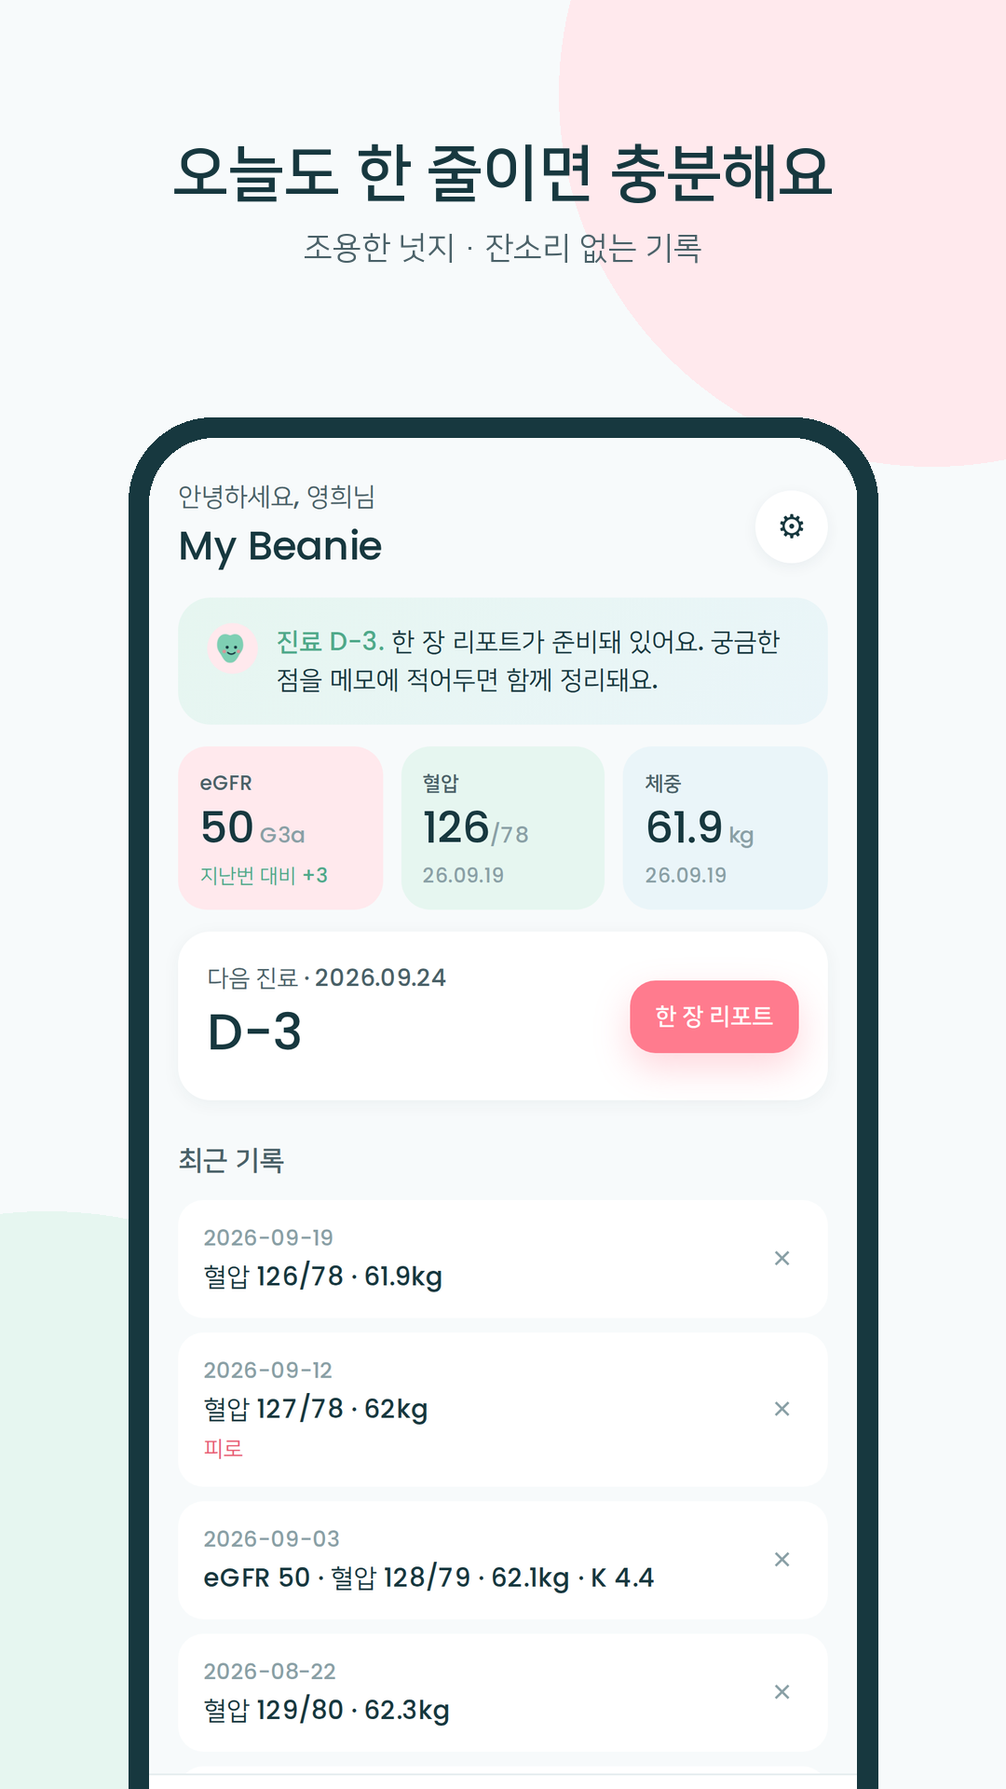
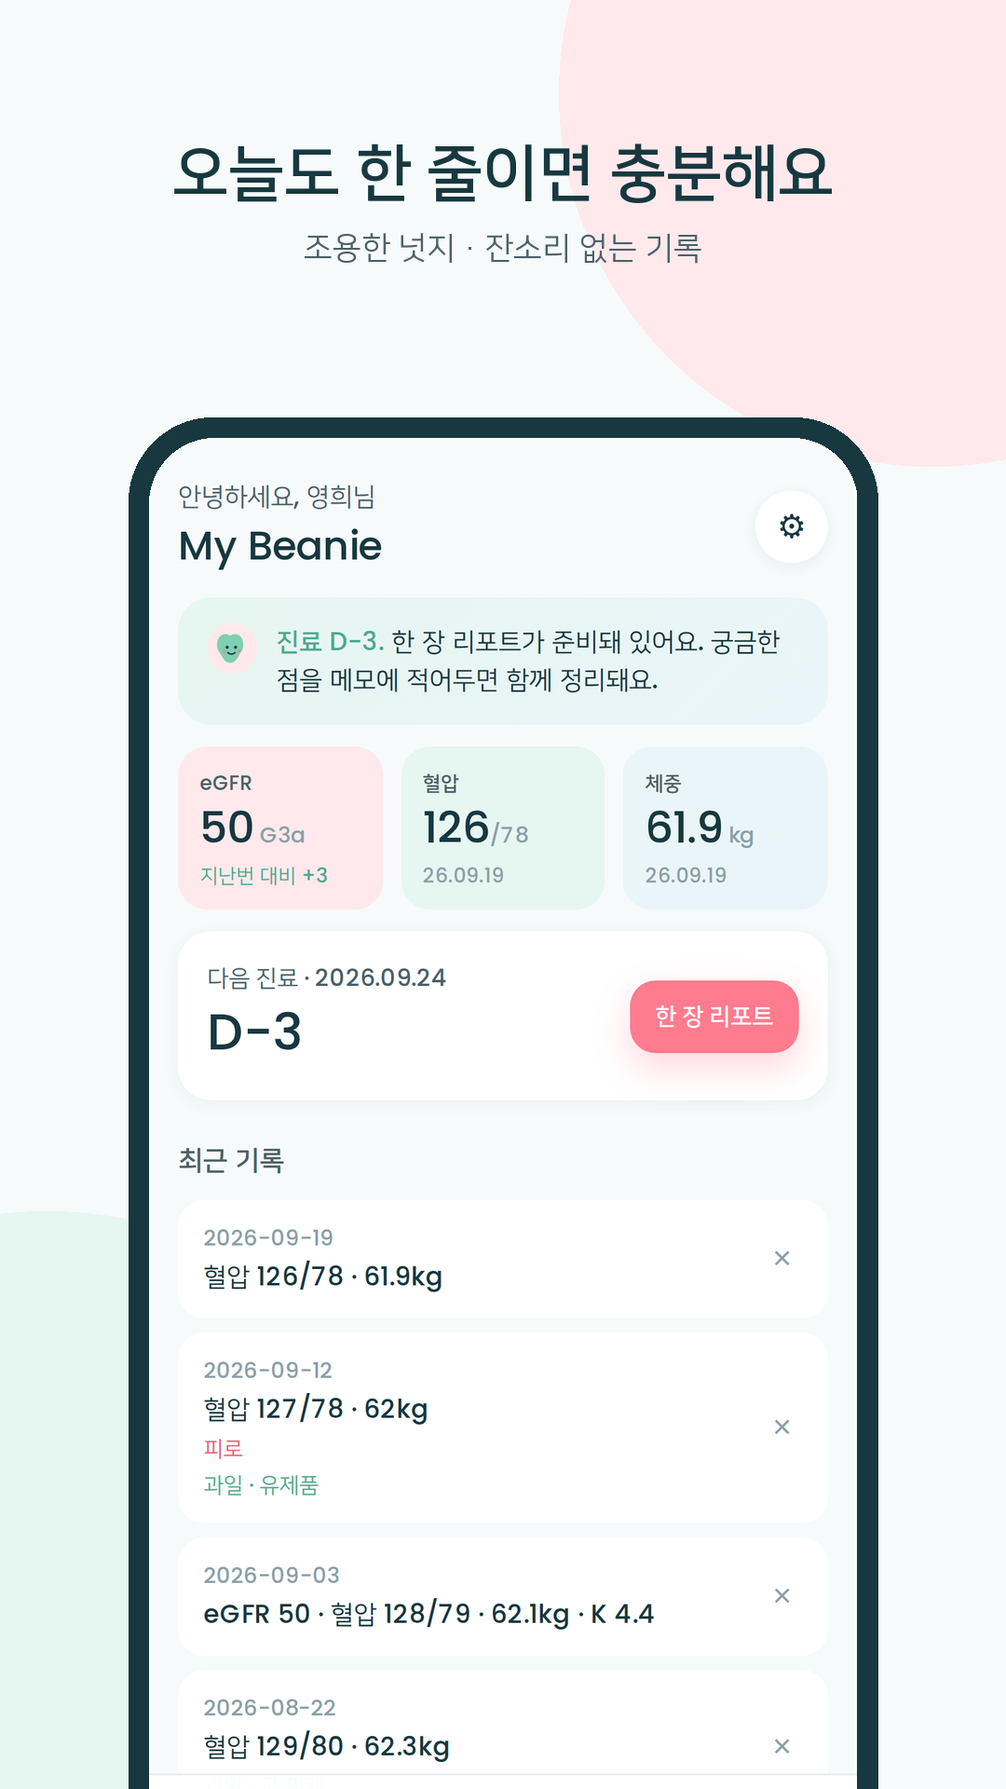
Add files via upload

Changed region(s): [[0.1833, 0.8125, 0.6722, 1.0], [0.3667, 0.9375, 0.4583, 1.0], [0.7639, 0.7812, 0.7944, 0.8125]]

diff --git a/app/app.js b/app/app.js
@@ -1,4 +1,4 @@
-/* My Beanie v0.2 — 콩팥 건강 일지 / Kidney Health Journal (PWA, ko/en) */
+/* My Beanie v0.3 — 콩팥 건강 일지 / Kidney Health Journal (PWA, ko/en) */
 (() => {
   const DEMO = /[?&]demo/.test(location.search);
   const KEY = DEMO ? 'mybeanie.demo' : 'mybeanie.v1';
@@ -7,6 +7,7 @@
   const today = () => new Date().toISOString().slice(0, 10);
   const fmt = d => d.replace(/-/g, '.').slice(2); // 26.09.17
   const r1 = n => Math.round(n * 10) / 10;
+  const esc = s => String(s).replace(/[&<>]/g, c => ({ '&': '&amp;', '<': '&lt;', '>': '&gt;' }[c]));
 
   // ---------- state ----------
   let S = load();
@@ -20,21 +21,23 @@
     const T = new Date(); const d = n => { const x = new Date(T); x.setDate(x.getDate() - n); return x.toISOString().slice(0, 10); };
     const v = new Date(T); v.setDate(v.getDate() + 3);
     const rows = [
-      [92, 1.34, 5.1, 3.9, 142, 89, 63.4, ['fatigue'], ''],
-      [80, null, null, null, 138, 86, 63.1, ['fatigue', 'nocturia'], ''],
+      [92, 1.34, 5.1, 3.9, 142, 89, 63.4, ['fatigue'], '', ['eatout', 'alcohol']],
+      [80, null, null, null, 138, 86, 63.1, ['fatigue', 'nocturia'], '', ['delivery', 'processed']],
       [68, null, null, null, 135, 84, 62.9, [], LANG === 'en' ? 'Some days I feel dizzy after taking my pills' : '약 먹고 나서 어지러운 날이 있어요'],
       [56, 1.29, 4.7, 3.7, 133, 82, 62.6, ['swelling'], LANG === 'en' ? 'My ankles swell every evening — is that okay?' : '저녁마다 발목이 붓는데 괜찮은가요?'],
-      [44, null, null, null, 131, 81, 62.5, ['swelling', 'nocturia'], ''],
-      [30, null, null, null, 129, 80, 62.3, [], ''],
+      [44, null, null, null, 131, 81, 62.5, ['swelling', 'nocturia'], '', ['eatout', 'soup']],
+      [30, null, null, null, 129, 80, 62.3, [], '', ['fruit', 'soup']],
       [18, 1.22, 4.4, 3.6, 128, 79, 62.1, [], LANG === 'en' ? 'Is my protein intake about right?' : '단백질 섭취량이 적당한지 궁금해요'],
-      [9, null, null, null, 127, 78, 62.0, ['fatigue'], ''],
+      [9, null, null, null, 127, 78, 62.0, ['fatigue'], '', ['fruit', 'dairy']],
       [2, null, null, null, 126, 78, 61.9, [], LANG === 'en' ? 'Less eating out seems to mean less swelling' : '외식을 줄였더니 붓기가 덜한 것 같아요'],
     ];
-    const entries = rows.map(([n, cr, k, p, sbp, dbp, wt, sym, note], i) => ({ id: 'demo' + i, date: d(n), ts: i, cr, k, p, sbp, dbp, wt, sym, note, egfr: cr ? egfr(cr, 61, 'F') : null }));
+    const ftext = { 0: LANG === 'en' ? 'Dinner out with friends' : '저녁 친구들과 외식', 1: LANG === 'en' ? 'Fried chicken delivery' : '치킨 배달', 4: LANG === 'en' ? 'Lunch out, dinner soup at home' : '점심 외식, 저녁 집에서 된장국' };
+    const entries = rows.map(([n, cr, k, p, sbp, dbp, wt, sym, note, ftags], i) => ({ id: 'demo' + i, date: d(n), ts: i, cr, k, p, sbp, dbp, wt, sym, note, egfr: cr ? egfr(cr, 61, 'F') : null, food: ftags ? { tags: ftags, text: ftext[i] || '', photo: null } : null }));
     return { profile: { name: t('demo_name'), year: T.getFullYear() - 61, sex: 'F', visit: v.toISOString().slice(0, 10) }, entries, symChips: [] };
   }
   const SYM_LEGACY = { '붓기': 'swelling', '피로': 'fatigue', '가려움': 'itching', '식욕저하': 'appetite', '숨참': 'breath', '두통': 'headache', '거품뇨': 'foamy', '야간뇨': 'nocturia', '잠 설침': 'sleep' };
   const symName = k => (t('sym')[k] || k);
+  const foodName = k => (t('foods')[k] || k);
   function migrate() { (S.entries || []).forEach(e => { e.sym = (e.sym || []).map(x => SYM_LEGACY[x] || x); }); }
   migrate();
   function save() { try { localStorage.setItem(KEY, JSON.stringify(S)); } catch (e) { toast(t('storage_err')); } }
@@ -116,7 +119,7 @@
     if (e.sbp) m.push(`${t('bp')} <b>${e.sbp}/${e.dbp || '–'}</b>`);
     if (e.wt) m.push(`<b>${e.wt}</b>kg`);
     if (e.k) m.push(`K <b>${e.k}</b>`);
-    return `<div class="item"><div><div class="dt">${e.date}</div><div class="m">${m.join(' · ') || (e.note ? t('memo') : t('record'))}</div>${e.sym?.length ? `<div class="sy">${e.sym.map(symName).join(' · ')}</div>` : ''}</div><button class="del" data-id="${e.id}" aria-label="${t('delete')}">×</button></div>`;
+    return `<div class="item"><div><div class="dt">${e.date}</div><div class="m">${m.join(' · ') || (e.food ? t('meal') : e.note ? t('memo') : t('record'))}</div>${e.sym?.length ? `<div class="sy">${e.sym.map(symName).join(' · ')}</div>` : ''}${e.food ? `<div class="fd">${[...(e.food.tags || []).map(foodName), e.food.text ? esc(e.food.text) : ''].filter(Boolean).join(' · ')}</div>` : ''}</div>${e.food?.photo ? `<img class="ft" src="${e.food.photo}" alt="">` : ''}<button class="del" data-id="${e.id}" aria-label="${t('delete')}">×</button></div>`;
   }
   // The Quiet Nudge — 한 번에 한 줄만
   function nudge(es, p) {
@@ -141,6 +144,23 @@
     const b = e.target.closest('button'); if (!b) return;
     b.classList.toggle('on'); b.classList.contains('on') ? sym.add(b.dataset.s) : sym.delete(b.dataset.s);
   });
+  let food = new Set(), foodPhoto = null;
+  $('#food-chips').addEventListener('click', e => {
+    const b = e.target.closest('button'); if (!b) return;
+    b.classList.toggle('on'); b.classList.contains('on') ? food.add(b.dataset.f) : food.delete(b.dataset.f);
+  });
+  function renderPhoto() { $('#food-prev').innerHTML = foodPhoto ? `<img src="${foodPhoto}" alt=""><button type="button" class="x" id="food-x">×</button>` : ''; const x = $('#food-x'); if (x) x.onclick = () => { foodPhoto = null; renderPhoto(); }; }
+  $('#food-photo').onchange = e => {
+    const f = e.target.files[0]; if (!f) return;
+    const img = new Image(); const url = URL.createObjectURL(f);
+    img.onload = () => {
+      const max = 480, s = Math.min(1, max / Math.max(img.width, img.height));
+      const c = document.createElement('canvas'); c.width = Math.round(img.width * s); c.height = Math.round(img.height * s);
+      c.getContext('2d').drawImage(img, 0, 0, c.width, c.height);
+      foodPhoto = c.toDataURL('image/jpeg', 0.6); URL.revokeObjectURL(url); renderPhoto(); if (s < 1) toast(t('photo_big'));
+    };
+    img.src = url; e.target.value = '';
+  };
   $('#log-form').cr.addEventListener('input', e => {
     const g = egfr(+e.target.value, age(), S.profile?.sex);
     $('#egfr-preview').textContent = g ? `→ eGFR ${g} (${stage(g)}) · CKD-EPI 2021` : '';
@@ -149,11 +169,12 @@
   $('#log-form').onsubmit = ev => {
     ev.preventDefault();
     const f = ev.target, n = k => f[k].value === '' ? null : +f[k].value;
-    const e = { id: Date.now().toString(36), date: today(), ts: Date.now(), cr: n('cr'), k: n('k'), p: n('p'), sbp: n('sbp'), dbp: n('dbp'), wt: n('wt'), sym: [...sym], note: f.note.value.trim() };
+    const e = { id: Date.now().toString(36), date: today(), ts: Date.now(), cr: n('cr'), k: n('k'), p: n('p'), sbp: n('sbp'), dbp: n('dbp'), wt: n('wt'), sym: [...sym], note: f.note.value.trim(), food: { tags: [...food], text: f.foodtext.value.trim(), photo: foodPhoto } };
     e.egfr = e.cr ? egfr(e.cr, age(), S.profile.sex) : null;
-    if (!e.cr && !e.sbp && !e.wt && !e.sym.length && !e.note && !e.k && !e.p) return toast(t('need_one'));
+    if (!e.food.tags.length && !e.food.text && !e.food.photo) e.food = null;
+    if (!e.cr && !e.sbp && !e.wt && !e.sym.length && !e.note && !e.k && !e.p && !e.food) return toast(t('need_one'));
     S.entries.push(e); save();
-    f.reset(); sym.clear(); $$('#sym-chips button').forEach(b => b.classList.remove('on')); $('#egfr-preview').textContent = '';
+    f.reset(); sym.clear(); food.clear(); foodPhoto = null; renderPhoto(); $$('#sym-chips button, #food-chips button').forEach(b => b.classList.remove('on')); $('#egfr-preview').textContent = '';
     toast(t('saved')); go('home');
   };
 
@@ -217,6 +238,8 @@
     row(t('tt_sbp'), avg(prev, 'sbp'), avg(cur, 'sbp'), '', false);
     row(t('tt_dbp'), avg(prev, 'dbp'), avg(cur, 'dbp'), '', false);
     row(t('tt_wt'), avg(prev, 'wt'), avg(cur, 'wt'), 'kg', false);
+    const eat = arr => arr.reduce((n, e) => n + ((e.food?.tags || []).filter(x => x === 'eatout' || x === 'delivery').length), 0);
+    const hasFood = es.some(e => e.food); if (hasFood) row(t('tt_eatout'), eat(prev), eat(cur), '', false);
     $('#timetravel').innerHTML = `<div class="t">${t('tt_title')}<span>TIME TRAVEL</span></div>` + (rows.length ? `<table><tr><td style="color:#8AA0A6;font-size:11px">${t('item')}</td><td style="color:#8AA0A6;font-size:11px;text-align:right">${t('last')}</td><td style="color:#8AA0A6;font-size:11px;text-align:right">${t('now')}</td></tr>${rows.join('')}</table>` : `<div class="empty">${t('tt_empty')}</div>`);
   }
 
@@ -232,6 +255,9 @@
     const symCount = {}; es.forEach(e => (e.sym || []).forEach(s => symCount[s] = (symCount[s] || 0) + 1));
     const syms = Object.entries(symCount).sort((a, b) => b[1] - a[1]);
     const notes = es.filter(e => e.note).slice(-6).reverse();
+    const foodCount = {}; es.forEach(e => (e.food?.tags || []).forEach(s => foodCount[s] = (foodCount[s] || 0) + 1));
+    const foodTags = Object.entries(foodCount).sort((a, b) => b[1] - a[1]);
+    const foodNotes = es.filter(e => e.food?.text).slice(-4).reverse();
     const first = L[0], last = L[L.length - 1];
     $('#onepager').innerHTML = `
       <div class="hd"><div><h3>${t('op_head', { name: p.name })}</h3><div class="en">The One-Pager · My Beanie</div></div>
@@ -246,11 +272,13 @@
       <tr><td>${t('op_wt')}</td><td class="num">${wt ? wt.avg : '–'}</td><td class="num">${wt ? wt.min + '–' + wt.max : '–'}</td><td class="num">${wt ? wt.n : 0}</td></tr></table>
       <h4 class="b">${t('op_signals')}</h4>
       ${syms.length ? syms.map(([s, n]) => `<span class="pill">${symName(s)} ×${n}</span>`).join('') : `<div class="meta">${t('op_no_sym')}</div>`}
+      <h4 class="m">${t('op_food')}</h4>
+      ${foodTags.length ? foodTags.map(([s, n]) => `<span class="pill f">${foodName(s)} ×${n}</span>`).join('') : `<div class="meta">${t('op_no_food')}</div>`}
+      ${foodNotes.length ? `<div class="meta" style="margin-top:6px"><b>${t('op_food_recent')}</b> · ${foodNotes.map(e => fmt(e.date) + ' ' + esc(e.food.text)).join(' · ')}</div>` : ''}
       <h4>${t('op_questions')}</h4>
       ${notes.length ? `<ul>${notes.map(e => `<li><span style="color:#8AA0A6;font-family:Poppins">${fmt(e.date)}</span> ${esc(e.note)}</li>`).join('')}</ul>` : `<div class="meta">${t('op_no_notes')}</div>`}
       <div class="foot">${t('op_foot')}</div>`;
   }
-  const esc = s => s.replace(/[&<>]/g, c => ({ '&': '&amp;', '<': '&lt;', '>': '&gt;' }[c]));
   $('#rep-print').onclick = () => window.print();
   $('#rep-share').onclick = async () => {
     const text = $('#onepager').innerText;

diff --git a/app/i18n.js b/app/i18n.js
@@ -13,7 +13,7 @@ window.I18N = {
     start_logging: '기록을 시작해 보세요', last_record: '최근 기록', no_record: '최근 기록 없음', enter_cr: '크레아티닌을 입력하면 계산돼요',
     vs_last: '지난번 대비 {d}', next_visit: '다음 진료 · {date}', passed: '지남', today_lbl: '오늘', one_pager_btn: '한 장 리포트',
     set_visit: '다음 진료일을 설정하면 리포트 준비를 알려드려요', recent: '최근 기록', empty_home: '아직 기록이 없어요. 아래 ＋ 기록에서 시작해 보세요.',
-    del_confirm: '이 기록을 삭제할까요?', delete: '삭제', memo: '메모', record: '기록',
+    del_confirm: '이 기록을 삭제할까요?', delete: '삭제', memo: '메모', record: '기록', meal: '식사',
     // nudge
     n_visit: '<b>진료 D-{d}.</b> 한 장 리포트가 준비돼 있어요. 궁금한 점을 메모에 적어두면 함께 정리돼요.',
     n_bp: '<b>최근 세 번 혈압이 높은 편이에요.</b> 진료 때 꼭 이야기해 보세요.',
@@ -26,6 +26,10 @@ window.I18N = {
     daily: '일상 측정', sbp: '수축기', dbp: '이완기', wt: '체중 (kg)', signals: '몸의 신호', signals_hint: '해당하는 것만',
     notes_lbl: '의사에게 물어볼 것 · 메모', notes_ph: '예: 저녁마다 발목이 붓는데 괜찮은가요?', save: '저장', need_one: '한 가지라도 적어 주세요', saved: '저장했어요',
     sym: { swelling: '붓기', fatigue: '피로', itching: '가려움', appetite: '식욕저하', breath: '숨참', headache: '두통', foamy: '거품뇨', nocturia: '야간뇨', sleep: '잠 설침' },
+    // food
+    food: '오늘 먹은 것', food_hint: '계산하지 않아요 · 패턴만', food_ph: '한 줄로 (예: 점심 김치찌개, 저녁 외식)', food_photo: '📷 사진',
+    foods: { eatout: '외식', delivery: '배달', soup: '국·찌개', fruit: '과일', nuts: '견과', dairy: '유제품', processed: '가공식품', alcohol: '음주' },
+    tt_eatout: '외식+배달 (30일 횟수)', op_food: '식사 패턴 (기간 내 횟수)', op_no_food: '식사 기록 없음', op_food_recent: '최근 식사 메모', photo_big: '사진이 너무 커서 축소해 저장했어요',
     // trend
     trend: '추이', chart_empty: '아직 기록이 없어요', tt_title: '지난번 대비 비교', item: '항목', last: '지난번', now: '이번',
     tt_cr: '크레아티닌', tt_k: '칼륨 K', tt_sbp: '수축기 혈압 (30일 평균)', tt_dbp: '이완기 혈압 (30일 평균)', tt_wt: '체중 (30일 평균)', tt_empty: '두 번 이상 기록하면 비교가 시작돼요',
@@ -39,7 +43,7 @@ window.I18N = {
     share_title: 'My Beanie 진료 전 한 장', copied: '텍스트를 복사했어요', no_share: '공유를 지원하지 않는 브라우저예요',
     // settings
     st_name: '이름', st_year: '출생연도', st_visit: '다음 진료일', st_lang: '언어 · Language', data: '데이터', export: '기록 내보내기 (JSON)', import: '기록 가져오기', reset: '모든 기록 삭제',
-    imported: '가져왔어요', bad_file: '파일을 읽을 수 없어요', reset_confirm: '모든 기록과 설정을 삭제할까요? 되돌릴 수 없어요.', st_foot: 'My Beanie v0.2 · 개인 건강기록 도구',
+    imported: '가져왔어요', bad_file: '파일을 읽을 수 없어요', reset_confirm: '모든 기록과 설정을 삭제할까요? 되돌릴 수 없어요.', st_foot: 'My Beanie v0.3 · 개인 건강기록 도구',
     // tabs
     tab_home: '홈', tab_log: '기록', tab_trend: '추이', tab_report: '리포트',
     demo_bar: '데모 데이터 · 가상의 기록입니다 (실제 환자 아님)', demo_link: '실제로 시작하기 →', demo_name: '영희', storage_err: '저장 공간을 사용할 수 없어요',
@@ -54,7 +58,7 @@ window.I18N = {
     start_logging: 'Start logging', last_record: 'Latest', no_record: 'No records yet', enter_cr: 'Enter creatinine to calculate',
     vs_last: '{d} vs. last', next_visit: 'Next visit · {date}', passed: 'passed', today_lbl: 'today', one_pager_btn: 'One-Pager',
     set_visit: 'Set your next appointment and I\'ll remind you to prepare the report', recent: 'Recent entries', empty_home: 'Nothing logged yet. Tap ＋ Log below to begin.',
-    del_confirm: 'Delete this entry?', delete: 'Delete', memo: 'Note', record: 'Entry',
+    del_confirm: 'Delete this entry?', delete: 'Delete', memo: 'Note', record: 'Entry', meal: 'Meal',
     n_visit: '<b>Visit in {d} days.</b> Your One-Pager is ready. Jot down questions in a note and they\'ll be included.',
     n_bp: '<b>Your last three blood pressures ran high.</b> Be sure to mention it at your visit.',
     n_swell: '<b>Swelling has continued.</b> Logging today\'s weight alongside will help at your visit.',
@@ -65,6 +69,9 @@ window.I18N = {
     daily: 'Daily measurements', sbp: 'Systolic', dbp: 'Diastolic', wt: 'Weight (kg)', signals: 'Body signals', signals_hint: 'tap any that apply',
     notes_lbl: 'Questions for my doctor · Notes', notes_ph: 'e.g. My ankles swell every evening — is that okay?', save: 'Save', need_one: 'Please enter at least one item', saved: 'Saved',
     sym: { swelling: 'Swelling', fatigue: 'Fatigue', itching: 'Itching', appetite: 'Low appetite', breath: 'Short of breath', headache: 'Headache', foamy: 'Foamy urine', nocturia: 'Night urination', sleep: 'Poor sleep' },
+    food: 'What I ate today', food_hint: 'no counting · just patterns', food_ph: 'One line (e.g. lunch: stew, dinner: ate out)', food_photo: '📷 Photo',
+    foods: { eatout: 'Ate out', delivery: 'Delivery', soup: 'Soup / stew', fruit: 'Fruit', nuts: 'Nuts', dairy: 'Dairy', processed: 'Processed food', alcohol: 'Alcohol' },
+    tt_eatout: 'Ate out + delivery (30-day count)', op_food: 'Meal patterns (count in period)', op_no_food: 'No meals logged', op_food_recent: 'Recent meal notes', photo_big: 'Photo was resized to save space',
     trend: 'Trends', chart_empty: 'No records yet', tt_title: 'Then vs. now', item: 'Item', last: 'Last', now: 'Now',
     tt_cr: 'Creatinine', tt_k: 'Potassium K', tt_sbp: 'Systolic BP (30-day avg)', tt_dbp: 'Diastolic BP (30-day avg)', tt_wt: 'Weight (30-day avg)', tt_empty: 'Log at least twice to start comparing',
     rep_title: 'Pre-visit report', period: 'Period', d30: 'Last 30 days', d90: 'Last 90 days', d180: 'Last 180 days', print: 'Print / PDF', share: 'Share',
@@ -75,7 +82,7 @@ window.I18N = {
     op_foot: 'A personal health record kept by the patient; not a medical device. eGFR is a reference value from the CKD-EPI 2021 (race-free) equation; clinical judgment rests with your care team. kidneybloom.com',
     share_title: 'My Beanie pre-visit report', copied: 'Copied to clipboard', no_share: 'Sharing is not supported in this browser',
     st_name: 'Name', st_year: 'Year of birth', st_visit: 'Next appointment', st_lang: 'Language · 언어', data: 'Data', export: 'Export records (JSON)', import: 'Import records', reset: 'Delete all records',
-    imported: 'Imported', bad_file: 'Could not read the file', reset_confirm: 'Delete all records and settings? This cannot be undone.', st_foot: 'My Beanie v0.2 · personal health-record tool',
+    imported: 'Imported', bad_file: 'Could not read the file', reset_confirm: 'Delete all records and settings? This cannot be undone.', st_foot: 'My Beanie v0.3 · personal health-record tool',
     tab_home: 'Home', tab_log: 'Log', tab_trend: 'Trends', tab_report: 'Report',
     demo_bar: 'Demo · fictional data, not a real patient', demo_link: 'Start for real →', demo_name: 'Jane', storage_err: 'Storage is not available',
   },
@@ -96,4 +103,5 @@ window.applyI18n = () => {
   document.querySelectorAll('[data-i18n]').forEach(el => { const k = el.dataset.i18n; const v = t(k); if (v.includes('\n')) el.innerHTML = v.replace(/\n/g, '<br>'); else el.textContent = v; });
   document.querySelectorAll('[data-i18n-ph]').forEach(el => el.placeholder = t(el.dataset.i18nPh));
   document.querySelectorAll('[data-i18n-sym]').forEach(el => el.textContent = t('sym')[el.dataset.s]);
+  document.querySelectorAll('[data-i18n-food]').forEach(el => el.textContent = t('foods')[el.dataset.f]);
 };

diff --git a/app/style.css b/app/style.css
@@ -39,6 +39,7 @@ label{display:block;font-size:13px;font-weight:700;color:var(--ink-2);margin:12p
 input,textarea,select{display:block;width:100%;margin-top:6px;border:1px solid var(--line);border-radius:12px;padding:12px 14px;font-size:16px;font-family:var(--ko);background:#fff;color:var(--ink)}
 input:focus,textarea:focus,select:focus{outline:2px solid var(--mint);border-color:transparent}
 input[type=number]{font-family:var(--en)}
+input[hidden]{display:none!important}
 .row2{display:grid;grid-template-columns:1fr 1fr;gap:10px}
 .grp{background:var(--card);border-radius:var(--r);padding:6px 16px 16px;margin-bottom:12px}
 .grp-t{font-size:14px;font-weight:800;margin-top:10px}
@@ -47,6 +48,15 @@ input[type=number]{font-family:var(--en)}
 .chips{display:flex;flex-wrap:wrap;gap:8px;margin-top:12px}
 .chips button{border:1px solid var(--line);background:#fff;border-radius:999px;padding:8px 14px;font-family:var(--ko);font-size:14px;color:var(--ink-2);cursor:pointer}
 .chips button.on{background:var(--coral-soft);border-color:var(--coral);color:var(--coral-deep);font-weight:700}
+/* food */
+.photo-row{display:flex;align-items:center;gap:10px;margin-top:10px}
+.photo-btn{display:inline-flex;align-items:center;gap:6px;border:1px dashed var(--ink-3);border-radius:12px;padding:9px 14px;font-size:13px;font-weight:700;color:var(--ink-2);cursor:pointer;margin:0}
+.photo-prev{display:flex;gap:6px}
+.photo-prev img{width:48px;height:48px;object-fit:cover;border-radius:10px;border:1px solid var(--line)}
+.photo-prev .x{width:48px;height:48px;border-radius:10px;border:1px solid var(--line);background:#fff;color:var(--ink-3);font-size:18px;cursor:pointer}
+.list .item .fd{font-size:12px;color:var(--mint-deep);margin-top:2px}
+.list .item img.ft{width:44px;height:44px;object-fit:cover;border-radius:10px;flex:none}
+.onepager .pill.f{background:var(--mint-soft);color:var(--mint-deep)}
 /* onboarding */
 .onb{padding:40px 8px 20px;text-align:center}
 .onb-mascot{width:120px;height:120px;border-radius:32px;margin-bottom:12px}

diff --git a/app/index.html b/app/index.html
@@ -81,6 +81,19 @@
         </div>
       </div>
       <div class="grp">
+        <div class="grp-t"><span data-i18n="food"></span> <small data-i18n="food_hint"></small></div>
+        <div class="chips" id="food-chips">
+          <button type="button" data-f="eatout" data-i18n-food></button><button type="button" data-f="delivery" data-i18n-food></button><button type="button" data-f="soup" data-i18n-food></button><button type="button" data-f="fruit" data-i18n-food></button>
+          <button type="button" data-f="nuts" data-i18n-food></button><button type="button" data-f="dairy" data-i18n-food></button><button type="button" data-f="processed" data-i18n-food></button><button type="button" data-f="alcohol" data-i18n-food></button>
+        </div>
+        <input name="foodtext" type="text" maxlength="80" data-i18n-ph="food_ph" style="margin-top:12px">
+        <div class="photo-row">
+          <label class="photo-btn" for="food-photo"><span data-i18n="food_photo"></span></label>
+          <input type="file" id="food-photo" accept="image/*" capture="environment" hidden>
+          <div class="photo-prev" id="food-prev"></div>
+        </div>
+      </div>
+      <div class="grp">
         <div class="grp-t" data-i18n="notes_lbl"></div>
         <textarea name="note" rows="3" data-i18n-ph="notes_ph"></textarea>
       </div>

diff --git a/app/sw.js b/app/sw.js
@@ -1,4 +1,4 @@
-const CACHE = 'mybeanie-v4';
+const CACHE = 'mybeanie-v5';
 const ASSETS = ['./', './index.html', './style.css', './app.js', './i18n.js', './manifest.json', './fonts/Poppins-Medium.woff2', './icons/icon-192.png', './icons/icon-512.png'];
 self.addEventListener('install', e => {
   e.waitUntil(caches.open(CACHE).then(c => c.addAll(ASSETS)).then(() => self.skipWaiting()));
